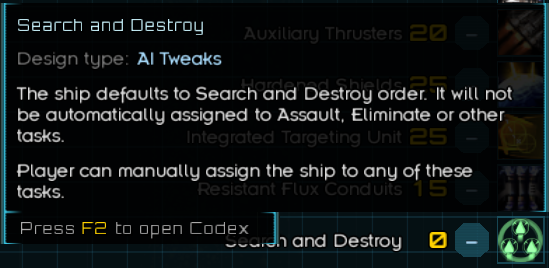
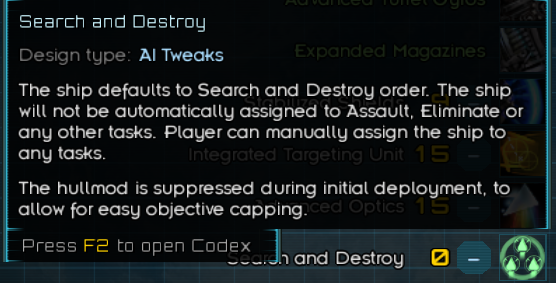
The hullmod is suppressed during initial deployment, to allow for easy objective capping.

diff --git a/src/com/genir/aitweaks/core/SearchAndDestroyManager.kt b/src/com/genir/aitweaks/core/SearchAndDestroyManager.kt
@@ -1,18 +1,22 @@
 package com.genir.aitweaks.core
 
 import com.fs.starfarer.api.Global
+import com.fs.starfarer.api.combat.AssignmentTargetAPI
 import com.fs.starfarer.api.combat.BaseEveryFrameCombatPlugin
+import com.fs.starfarer.api.combat.ShipAPI
 import com.fs.starfarer.api.input.InputEventAPI
-import com.genir.aitweaks.core.extensions.deployedFleetMember
-import com.genir.aitweaks.core.extensions.isModule
-import com.genir.aitweaks.core.extensions.isUnderManualControl
-import com.genir.aitweaks.core.extensions.taskManager
+import com.genir.aitweaks.core.extensions.*
+import com.genir.aitweaks.core.state.State.Companion.state
 
 class SearchAndDestroyManager : BaseEveryFrameCombatPlugin() {
+    private val initialAssignments: MutableMap<ShipAPI, AssignmentTargetAPI> = mutableMapOf()
+
+    private var firstFrameWithShips = Int.MAX_VALUE
+
     override fun advance(dt: Float, events: MutableList<InputEventAPI>?) {
         val engine = Global.getCombatEngine()
 
-        val ships = engine.ships.filter { ship ->
+        val allShips = engine.ships.filter { ship ->
             when {
                 ship.owner != 0 -> false
                 ship.isAlly -> false
@@ -21,19 +25,55 @@ class SearchAndDestroyManager : BaseEveryFrameCombatPlugin() {
                 ship.isStation -> false
                 ship.isModule -> false
                 ship.isFighter -> false
+                else -> true
+            }
+        }
+
+        val shipsToOrder = allShips.filter { ship ->
+            when {
                 ship.isUnderManualControl -> false
                 !ship.variant.hasHullMod("aitweaks_search_and_destroy") -> false
                 else -> true
             }
         }
 
-        ships.forEach { ship ->
-            val taskManager = ship.taskManager as Obfuscated.CombatTaskManager
-            val fleetMember = ship.deployedFleetMember as Obfuscated.DeployedFleetMember
+        // Remember non-direct orders given during initial deployment.
+        if (firstFrameWithShips >= state.unpausedFrameCount && allShips.isNotEmpty()) {
+            shipsToOrder.forEach { ship ->
+                val assignment = ship.assignment
 
-            if (!(taskManager).hasDirectOrders(fleetMember)) {
-                ship.taskManager.orderSearchAndDestroy(ship.deployedFleetMember, false)
+                if (assignment != null && !ship.hasDirectOrders) {
+                    initialAssignments[ship] = assignment.target
+                }
             }
+
+            firstFrameWithShips = state.unpausedFrameCount
+            return
+        }
+
+        shipsToOrder.forEach { ship ->
+            if (ship.hasDirectOrders) {
+                return@forEach
+            }
+
+            val assignment = ship.assignment
+            if (assignment != null) {
+                if (assignment.target == initialAssignments[ship]) {
+                    return@forEach
+                } else {
+                    initialAssignments.remove(ship)
+                }
+            }
+
+            ship.taskManager.orderSearchAndDestroy(ship.deployedFleetMember, false)
         }
     }
+
+    private val ShipAPI.hasDirectOrders: Boolean
+        get() {
+            val taskManager = taskManager as Obfuscated.CombatTaskManager
+            val fleetMember = deployedFleetMember as Obfuscated.DeployedFleetMember
+
+            return taskManager.hasDirectOrders(fleetMember)
+        }
 }

diff --git a/src/com/genir/aitweaks/core/state/State.kt b/src/com/genir/aitweaks/core/state/State.kt
@@ -29,7 +29,8 @@ class State : BaseEveryFrameCombatPlugin() {
         config = Config()
     }
 
-    var frameIndex: Int = 0
+    var frameCount: Int = 0
+    var unpausedFrameCount: Int = 0
     val debugPlugin: DebugPlugin? = if (config.devMode) DebugPlugin() else null
 
     val fleetSegmentation: Array<FleetSegmentation> = arrayOf(FleetSegmentation(0), FleetSegmentation(1))
@@ -51,7 +52,7 @@ class State : BaseEveryFrameCombatPlugin() {
     override fun advance(dt: Float, events: MutableList<InputEventAPI>?) {
         debugPlugin?.advance(dt, events)
 
-        if (frameIndex == 0) {
+        if (frameCount == 0) {
             removeGrid()
         }
 
@@ -61,7 +62,10 @@ class State : BaseEveryFrameCombatPlugin() {
             plugins.forEach { it.advance(dt, events) }
         }
 
-        frameIndex++
+        frameCount++
+        if (!Global.getCombatEngine().isPaused) {
+            unpausedFrameCount++
+        }
     }
 
     override fun renderInUICoords(viewport: ViewportAPI?) {

diff --git a/src/com/genir/aitweaks/core/shipai/movement/Movement.kt b/src/com/genir/aitweaks/core/shipai/movement/Movement.kt
@@ -38,7 +38,7 @@ class Movement(override val ai: CustomShipAI) : AttackCoordinator.Coordinatable 
     private val strafeRotation = RotationMatrix(if (this.hashCode() % 2 == 0) 90f else -90f)
 
     fun advance(dt: Float) {
-        if (prevFrameIdx != state.frameIndex) {
+        if (prevFrameIdx != state.frameCount) {
             engineController.clearCommands()
 
             setFacing(dt)
@@ -47,7 +47,7 @@ class Movement(override val ai: CustomShipAI) : AttackCoordinator.Coordinatable 
 
         engineController.executeCommands()
 
-        prevFrameIdx = state.frameIndex
+        prevFrameIdx = state.frameCount
     }
 
     private fun setFacing(dt: Float) {

diff --git a/README.md b/README.md
@@ -300,7 +300,8 @@ detrimental to the ship's performance in combat."
 
 ### 3. Search and Destroy hullmod ###
 
-"The ship defaults to Search and Destroy order. It will not be automatically assigned to Assault, Eliminate or other tasks.
-Player can manually assign the ship to any of these tasks."
+"The ship defaults to Search and Destroy order. The ship will not be automatically assigned to Assault, Eliminate or 
+any other tasks. Player can manually assign the ship to any tasks.
+The hullmod is suppressed during initial deployment, to allow for easy objective capping.""
 
 ![search and destroy](https://raw.githubusercontent.com/Halke1986/starsector-ai-tweaks/master/images/search_and_destroy.png)
